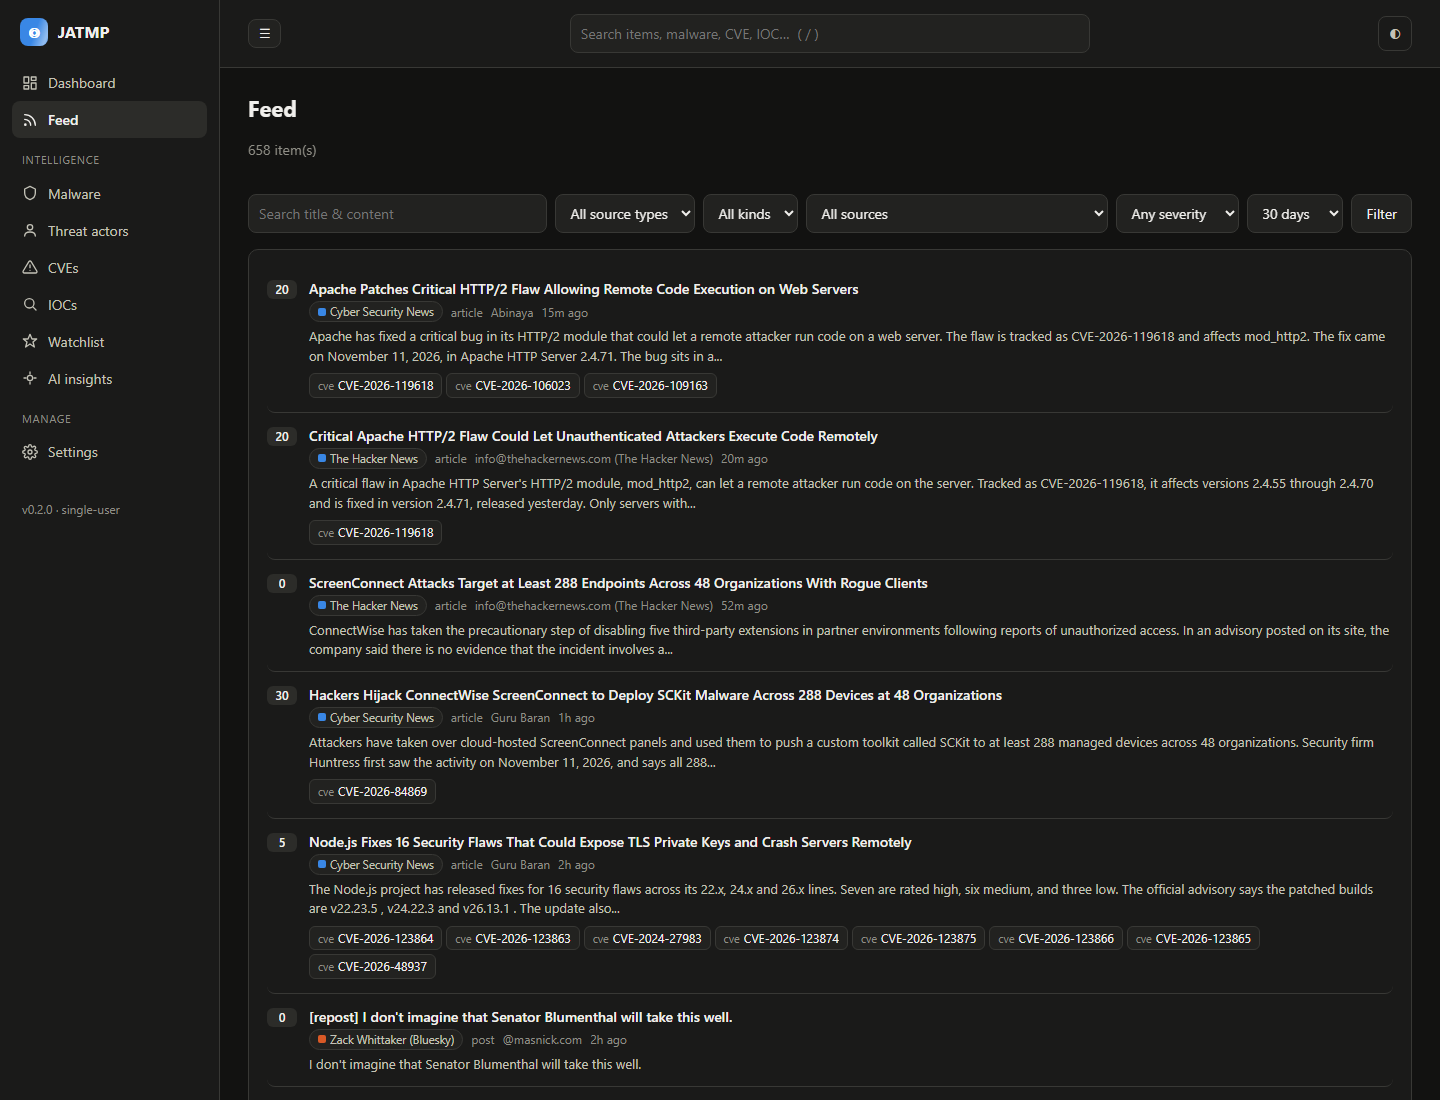
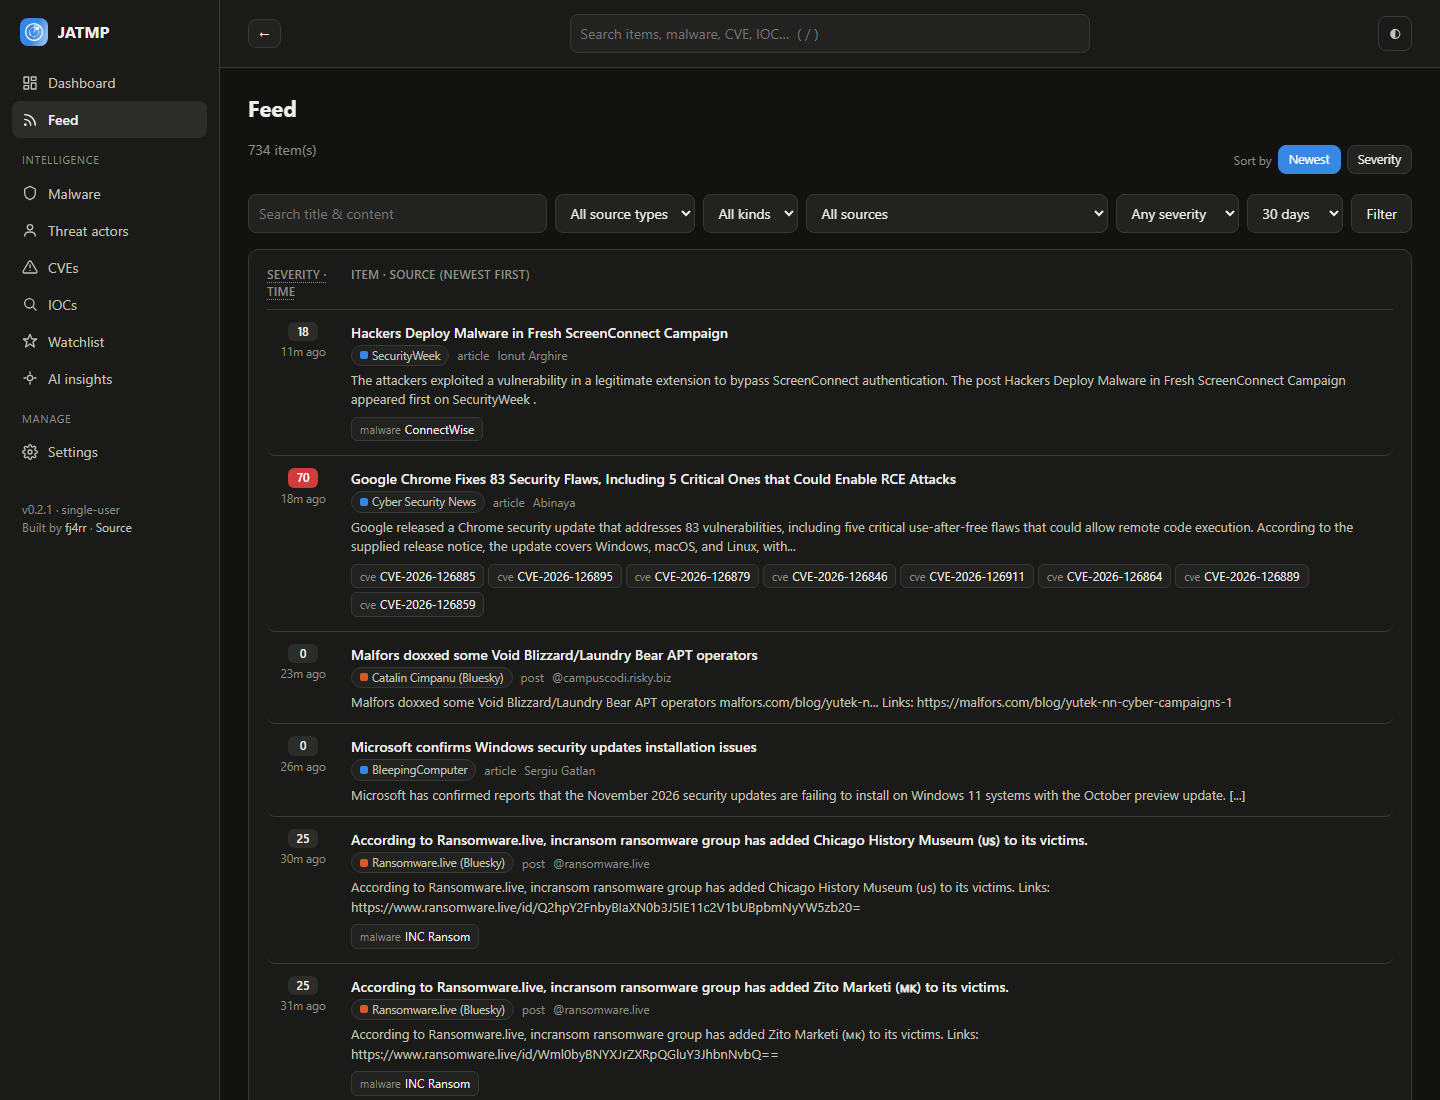
Refresh README screenshots, add credits and 0.2.1 changelog

Changed region(s): [[0.1875, 0.2473, 0.9688, 0.9891], [0.875, 0.1236, 0.9688, 0.1545], [0.0312, 0.4636, 0.0938, 0.4945]]

diff --git a/README.md b/README.md
@@ -15,17 +15,19 @@ Dashboard: threat radar, KPIs with sparklines, headline ticker, collection volum
 
 ![Dashboard](docs/screenshots/dashboard.png)
 
-| Malware family page: timeline, coverage per source, co-occurring CVEs/actors/IOCs | Item page: content, extracted entities, correlated items from other sources |
+| Malware family page: timeline, indicators, coverage per source, co-occurring CVEs/actors | Item page: content, extracted entities, correlated items from other sources |
 |---|---|
 | ![Entity page](docs/screenshots/entity.png) | ![Item page](docs/screenshots/item.png) |
 
-| Feed with filters and severity | IOC table with verdicts and attributed families |
+| Feed with filters, severity and time/severity sort | IOC table with verdicts, attributed families and where each indicator was seen |
 |---|---|
 | ![Feed](docs/screenshots/feed.png) | ![IOCs](docs/screenshots/iocs.png) |
 
-| Settings: sources, status and per-source actions | Mobile layout |
+| Malware families: sortable columns, trend score, mentions by type | Settings: add source, source status and per-source actions |
 |---|---|
-| ![Settings](docs/screenshots/settings.png) | <img src="docs/screenshots/mobile.jpg" alt="Mobile dashboard" width="300"> |
+| ![Malware families](docs/screenshots/malware.png) | ![Settings](docs/screenshots/settings.png) |
+
+<img src="docs/screenshots/mobile.jpg" alt="Mobile dashboard" width="300">
 
 ## Features
 
@@ -42,7 +44,7 @@ Dashboard: threat radar, KPIs with sparklines, headline ticker, collection volum
 | **Dashboard** | Animated: a *threat radar* (trending families as blips that light up as the sweep passes; closer to the centre = hotter), count-up KPIs with sparklines, a headline ticker, staggered card entrance, animated charts, 60-second auto-refresh (respects *prefers-reduced-motion*). Content: KPIs, volume per source type, trending families (score = 7-day rate vs 30-day baseline × source spread), top-5 family timeline, most-mentioned families, malware by type, IOC verdicts, items per source, hottest actors & CVEs |
 | **AI (optional)** | Per-item summary + extraction, *threat brief* per family/actor, automatic *daily digest* at 06:00 UTC, Q&A over the collected data. Providers: **Ollama** (local), **OpenAI-compatible** (LM Studio, vLLM, llama.cpp, OpenRouter, OpenAI, Groq…), **Anthropic Claude** (official SDK, default `claude-opus-5-5`). Output language is configurable (e.g. *Bahasa Indonesia*) |
 | **Install modes** | **Single-user** (no login) or **multi-user** (login, admin/analyst/viewer roles, admin dashboard: user management, job status, audit log, system stats) |
-| **Other** | Per-user watchlist, dark/light theme, keyboard shortcut `/` for search, mobile layout, data retention, Docker with health check |
+| **Other** | Sortable intelligence tables, per-family IOC lists, per-user watchlist, dark/light theme, keyboard shortcut `/` for search, mobile layout, data retention, Docker with health check |
 
 ## Quick start (local)
 
@@ -186,6 +188,16 @@ Run a single web worker: the scheduler lives in-process (scale collection by adj
 
 ## Changelog
 
+### 0.2.1
+
+- Sortable columns on the Malware / Threat actors / CVEs / IOCs tables; feed can be sorted by time or severity
+  and labels the severity column; IOC table shows where each indicator was seen; family/actor pages get an
+  Indicators card with a link to all related IOCs (`/iocs?entity=ID`).
+- Dashboard: KPI tiles link to their detail pages, radar explains placement with an axis key instead of a
+  sentence, "All families" is a button, items-per-source chart shows the top 12 with readable labels.
+- Chrome: new radar logo, brand links home, back button, burger menu only on small screens, "Add source"
+  moved above the table as a full-width panel, credits in the sidebar.
+
 ### 0.2.0
 
 - Security: CSP with nonces, vendored Chart.js, no inline handlers, extra response headers, HSTS/Secure
@@ -200,6 +212,11 @@ Run a single web worker: the scheduler lives in-process (scale collection by adj
   search, ARIA labels, skip link, focus rings, labelled inputs, grouped source list, radar blips fan out when
   scores tie, friendlier empty states.
 - Tooling: pytest suite, ruff config, GitHub Actions CI, `.dockerignore`, Docker health check, `/healthz`.
+
+## Credits
+
+Built and maintained by [**fj4rr**](https://github.com/fj4rr) · [github.com/fj4rr/just-another-threat-monitoring-platform](https://github.com/fj4rr/just-another-threat-monitoring-platform).
+Issues and pull requests are welcome.
 
 ## Notes
 
